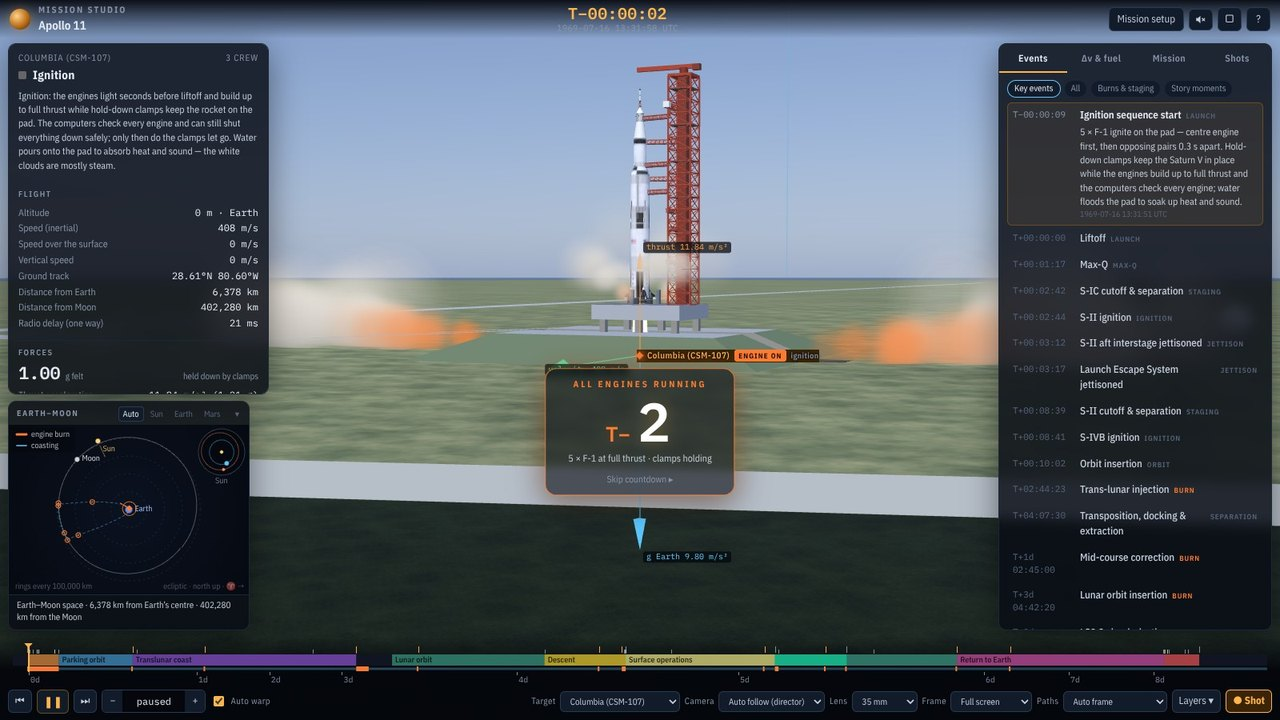
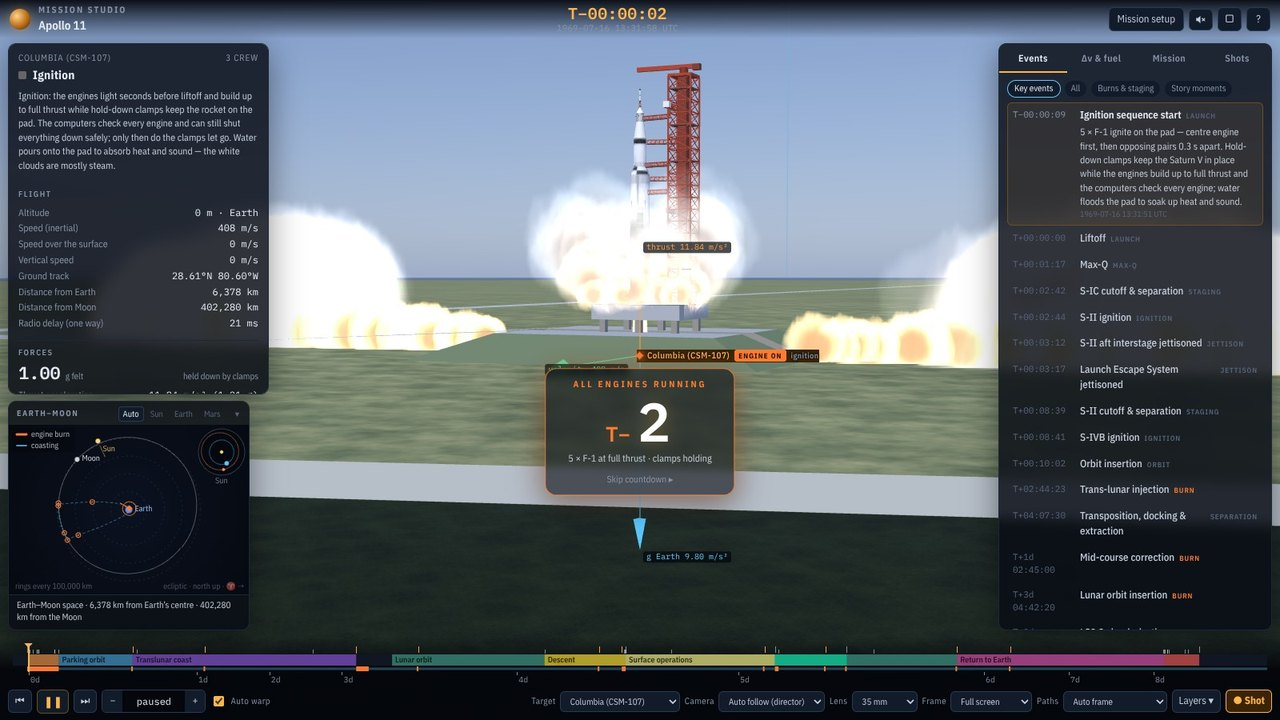
README: the launch cloud and the approach with its wingtip trails in the pictures

diff --git a/README.ko.md b/README.ko.md
@@ -75,11 +75,12 @@
 
 | | |
 |---|---|
-| ![STS-135: 국제우주정거장에 도킹한 아틀란티스](media/screenshot-iss.jpg) | ![STS-135: 새벽 케네디 우주센터 15번 활주로에서 감속 낙하산을 펴고 달리는 아틀란티스](media/screenshot-landing.jpg) |
-| ![STS-135 발사 105초 뒤: 옅은 공기 속에서 퍼지는 부스터의 불꽃, 검어지는 하늘](media/screenshot-ascent.jpg) | ![STS-31: 디스커버리의 로봇 팔이 허블을 화물칸 위로 들고 있다](media/screenshot-hubble.jpg) |
-| ![재진입 중인 STS-135: 배 아래에서 빛나는 충격층](media/screenshot-entry.jpg) | ![STS-31: 재진입이 끝나갈 무렵 고도 25 km의 푸른 공기 속을 활공하는 디스커버리](media/screenshot-glide.jpg) |
+| ![STS-135: 국제우주정거장에 도킹한 아틀란티스](media/screenshot-iss.jpg) | ![STS-135 발사 105초 뒤: 옅은 공기 속에서 퍼지는 부스터의 불꽃, 검어지는 하늘](media/screenshot-ascent.jpg) |
+| ![STS-31: 디스커버리의 로봇 팔이 허블을 화물칸 위로 들고 있다](media/screenshot-hubble.jpg) | ![재진입 중인 STS-135: 배 아래에서 빛나는 충격층](media/screenshot-entry.jpg) |
+| ![STS-31: 재진입이 끝나갈 무렵 고도 25 km의 푸른 공기 속을 활공하는 디스커버리](media/screenshot-glide.jpg) | ![STS-31: 에드워즈 활주로로 최종 접근하는 디스커버리, 날개 끝의 와류 비행운](media/screenshot-approach.jpg) |
+| ![STS-135: 새벽 케네디 우주센터 15번 활주로에서 감속 낙하산을 펴고 달리는 아틀란티스](media/screenshot-landing.jpg) | ![달 궤도 진입을 위해 달에 다가가는 아폴로 11호](media/screenshot-loi.jpg) |
 | ![화성의 버터스카치색 하늘 아래 퍼서비어런스를 내리는 스카이 크레인](media/screenshot-skycrane.jpg) | ![첫 주행 중인 퍼서비어런스와 바퀴 자국](media/screenshot-drive.jpg) |
-| ![화성 스윙바이를 앞둔 유로파 클리퍼](media/screenshot-clipper.jpg) | ![달 궤도 진입을 위해 달에 다가가는 아폴로 11호](media/screenshot-loi.jpg) |
+| ![화성 스윙바이를 앞둔 유로파 클리퍼](media/screenshot-clipper.jpg) |  |
 
 ## 임무 목록
 

diff --git a/README.md b/README.md
@@ -58,11 +58,12 @@
 
 | | |
 |---|---|
-| ![STS-135: Atlantis docked to the International Space Station](media/screenshot-iss.jpg) | ![STS-135: Atlantis rolling out on Runway 15 at Kennedy before dawn, drag chute out](media/screenshot-landing.jpg) |
-| ![STS-135 at T+105 s: the boosters' plumes spread in the thin air, the sky turning black](media/screenshot-ascent.jpg) | ![STS-31: Discovery's arm holds Hubble over the payload bay](media/screenshot-hubble.jpg) |
-| ![STS-135 in entry: the shock layer glows under the belly](media/screenshot-entry.jpg) | ![STS-31: Discovery gliding 25 km up in the blue air at the end of entry](media/screenshot-glide.jpg) |
+| ![STS-135: Atlantis docked to the International Space Station](media/screenshot-iss.jpg) | ![STS-135 at T+105 s: the boosters' plumes spread in the thin air, the sky turning black](media/screenshot-ascent.jpg) |
+| ![STS-31: Discovery's arm holds Hubble over the payload bay](media/screenshot-hubble.jpg) | ![STS-135 in entry: the shock layer glows under the belly](media/screenshot-entry.jpg) |
+| ![STS-31: Discovery gliding 25 km up in the blue air at the end of entry](media/screenshot-glide.jpg) | ![STS-31: Discovery on final approach to Edwards, vortex trails off its wingtips](media/screenshot-approach.jpg) |
+| ![STS-135: Atlantis rolling out on Runway 15 at Kennedy before dawn, drag chute out](media/screenshot-landing.jpg) | ![Apollo 11 arriving at the Moon for lunar orbit insertion](media/screenshot-loi.jpg) |
 | ![The sky crane lowers Perseverance under Mars's butterscotch sky](media/screenshot-skycrane.jpg) | ![Perseverance on its first drive, wheel tracks behind it](media/screenshot-drive.jpg) |
-| ![Europa Clipper before its Mars flyby](media/screenshot-clipper.jpg) | ![Apollo 11 arriving at the Moon for lunar orbit insertion](media/screenshot-loi.jpg) |
+| ![Europa Clipper before its Mars flyby](media/screenshot-clipper.jpg) |  |
 
 ## Missions
 
